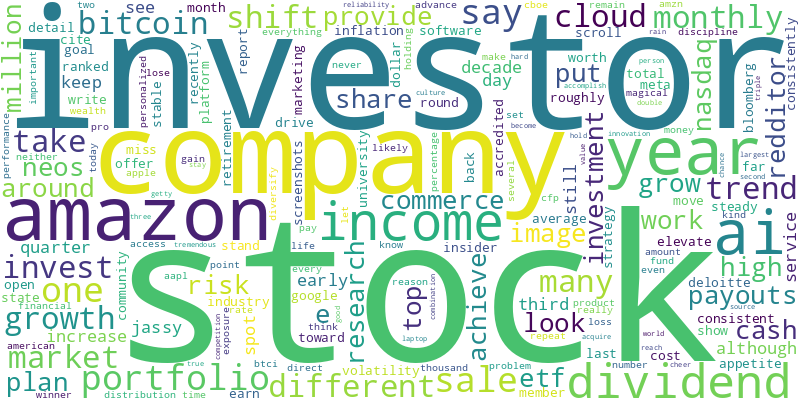
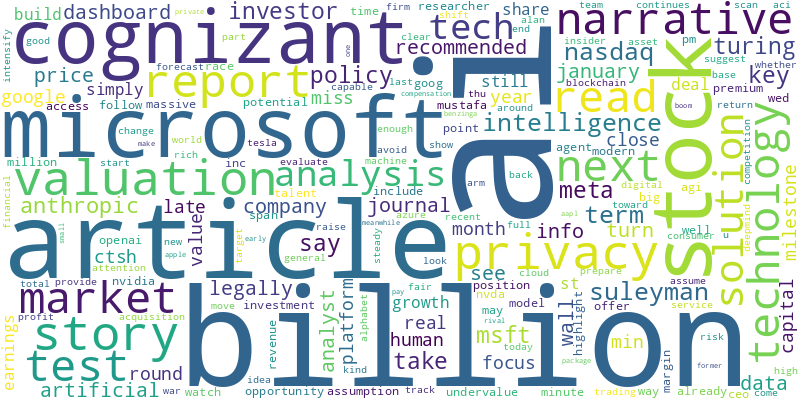
Integrated text analyzer into stock analysis

diff --git a/analyze.py b/analyze.py
@@ -106,52 +106,49 @@ def cleasneWordList(posTaggedWordTuples):
             cleasneWords.append(wordLemmatizer.lemmatize(cleasneWord, treebankPosToWordnetPos(pos)))
     return cleasneWords
 
+def analyzeText(textToAnalyze):
+    articleSentences = tokenizeSentences(textToAnalyze)
+    articleWords = tokenizeWords(articleSentences)
 
-# Get user Details
-welcomeuser()
-Greetings = getusername()
-greetuser(Greetings)
+    #Get Sentence Analytics
+    stockSearchPattern = "[0-9]|[%$€£]|thousand|million|billion|trillion|profit|loss"
+    keySentences = extractKeySentences(articleSentences, stockSearchPattern)
+    wordsPerSentence = getWordsPerSentences(articleSentences)
 
-#Extract and Tokenize Text
-articleTextRaw = getArticleText()
-articleSentences = tokenizeSentences(articleTextRaw)
-articleWords = tokenizeWords(articleSentences)
+    # Get Word Analytics 
+    wordPosTagged = pos_tag(articleWords)
+    articleWordsCleansed = cleasneWordList(wordPosTagged)
 
-#Get Sentence Analytics
-stockSearchPattern = "[0-9]|[%$€£]|thousand|million|billion|trillion|profit|loss"
-keySentences = extractKeySentences(articleSentences, stockSearchPattern)
-wordsPerSentence = getWordsPerSentences(articleSentences)
+    #Generate Word Cloud
+    separator = " "
+    wordCloudFilePath = "results/wordcloud.png"
+    wordcloud = WordCloud(width=800, height=400,\
+    background_color="white", colormap="viridis", collocations=False).generate(separator.join(articleWordsCleansed))
+    wordcloud.to_file(wordCloudFilePath)
 
-# Get Word Analytics 
-wordPosTagged = pos_tag(articleWords)
-articleWordsCleansed = cleasneWordList(wordPosTagged)
+    # Run sentiment Analysis
+    sentimentReslt = sentimentAnalyzer.polarity_scores(textToAnalyze)
 
-#Generate Word Cloud
-separator = " "
-wordCloudFilePath = "results/wordcloud.png"
-wordcloud = WordCloud(width=800, height=400,\
-background_color="white", colormap="viridis", collocations=False).generate(separator.join(articleWordsCleansed))
-wordcloud.to_file(wordCloudFilePath)
-
-# Run sentiment Analysis
-sentimentReslt = sentimentAnalyzer.polarity_scores(articleTextRaw)
-
-# Collate analysis into one dictionary
-finalReslt = {
-    "username": Greetings,
-   "data": {
-        "keySentences": keySentences,
-        "wordsPerSentence": round(wordsPerSentence, 1),
-        "sentiment": sentimentReslt,
-        "wordCloudFilePath": wordCloudFilePath,
-    },
-    "metadata": {
-        "sentencesAnalyzed": len(articleSentences),
-        "wordAnalyzed": len(articleWordsCleansed),
+    # Collate analysis into one dictionary
+    finalReslt = {
+    "data": {
+            "keySentences": keySentences,
+            "wordsPerSentence": round(wordsPerSentence, 1),
+            "sentiment": sentimentReslt,
+            "wordCloudFilePath": wordCloudFilePath,
+        },
+        "metadata": {
+            "sentencesAnalyzed": len(articleSentences),
+            "wordAnalyzed": len(articleWordsCleansed),
+        }
     }
-}
+    return finalReslt
+def runAsFile():
+    # Get user Details
+    welcomeuser()
+    Greetings = getusername()
+    greetuser(Greetings)
 
-finalResultJson = json.dumps(finalReslt, indent=4)
-
-# Print for testing
-print(finalResultJson)
+    #Extract and Tokenize Text
+    articleTextRaw = getArticleText()
+    analyzeText(articleTextRaw)

diff --git a/stockAnalyze.py b/stockAnalyze.py
@@ -1,8 +1,10 @@
 import yfinance as yf
 import requests
 import time
-from datetime import datetime, date
+from datetime import datetime
 from bs4 import BeautifulSoup
+import analyze
+import json
 
 def extractBasicInfo(company):
     data = company.fast_info
@@ -72,9 +74,6 @@ def extractCompanyNewsArticles(newsArticles):
         page = requests.get(url, headers=headers)
         soup = BeautifulSoup(page.text, 'html.parser')
         if not soup.find_all(string='Continue reading'):
-            print('Tag found - should skip')
-        else:
-            print('Tag not found, don\'t skip')
             allArticlesText += extractNewsArticleTextFromHtml(soup)
     return allArticlesText
 
@@ -89,6 +88,10 @@ def getCompanyStockInfo(tickerSymbol):
     futureEarningsDates = getEarningsDates(company)
     newsArticles = getCompanyNews(company)
     newsArticlesAllText = extractCompanyNewsArticles(newsArticles)
-    print(newsArticlesAllText)
+    newsTextanalysis = analyze.analyzeText(newsArticlesAllText)
+
+    finalResultJson = json.dumps(newsTextanalysis, indent=4)
+    # Print for testing
+    print(finalResultJson)
 
 getCompanyStockInfo('MSFT')
